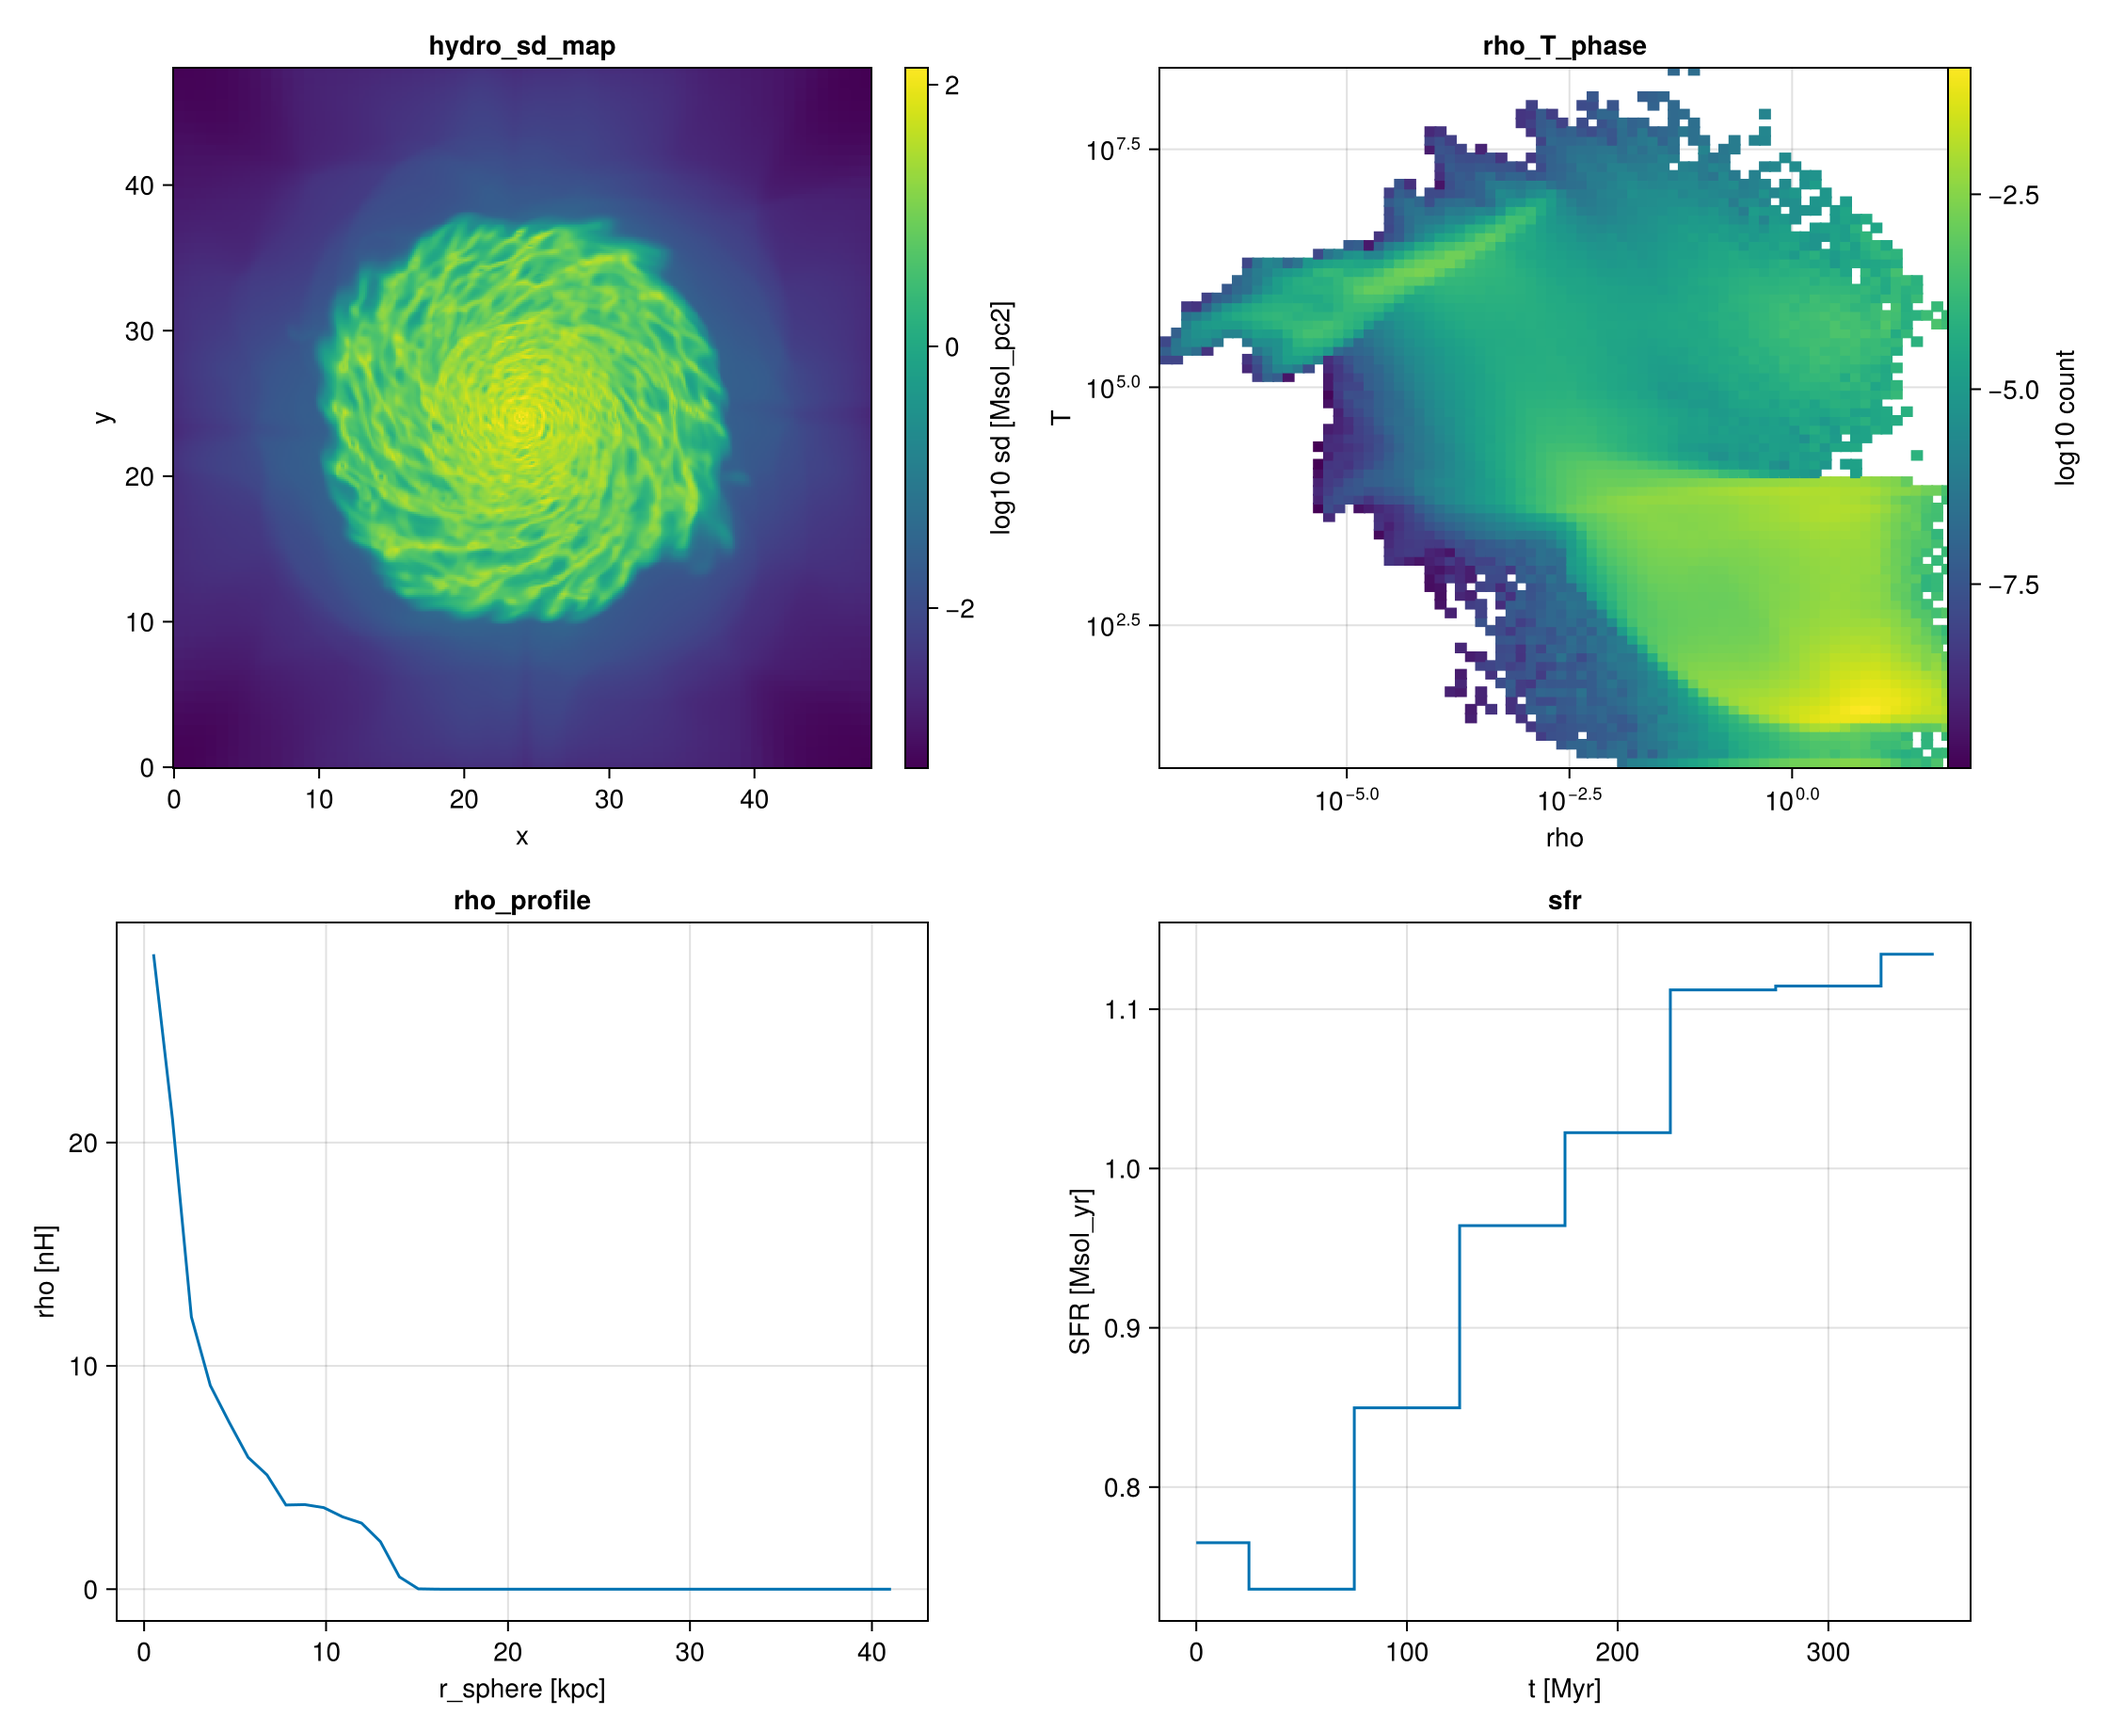
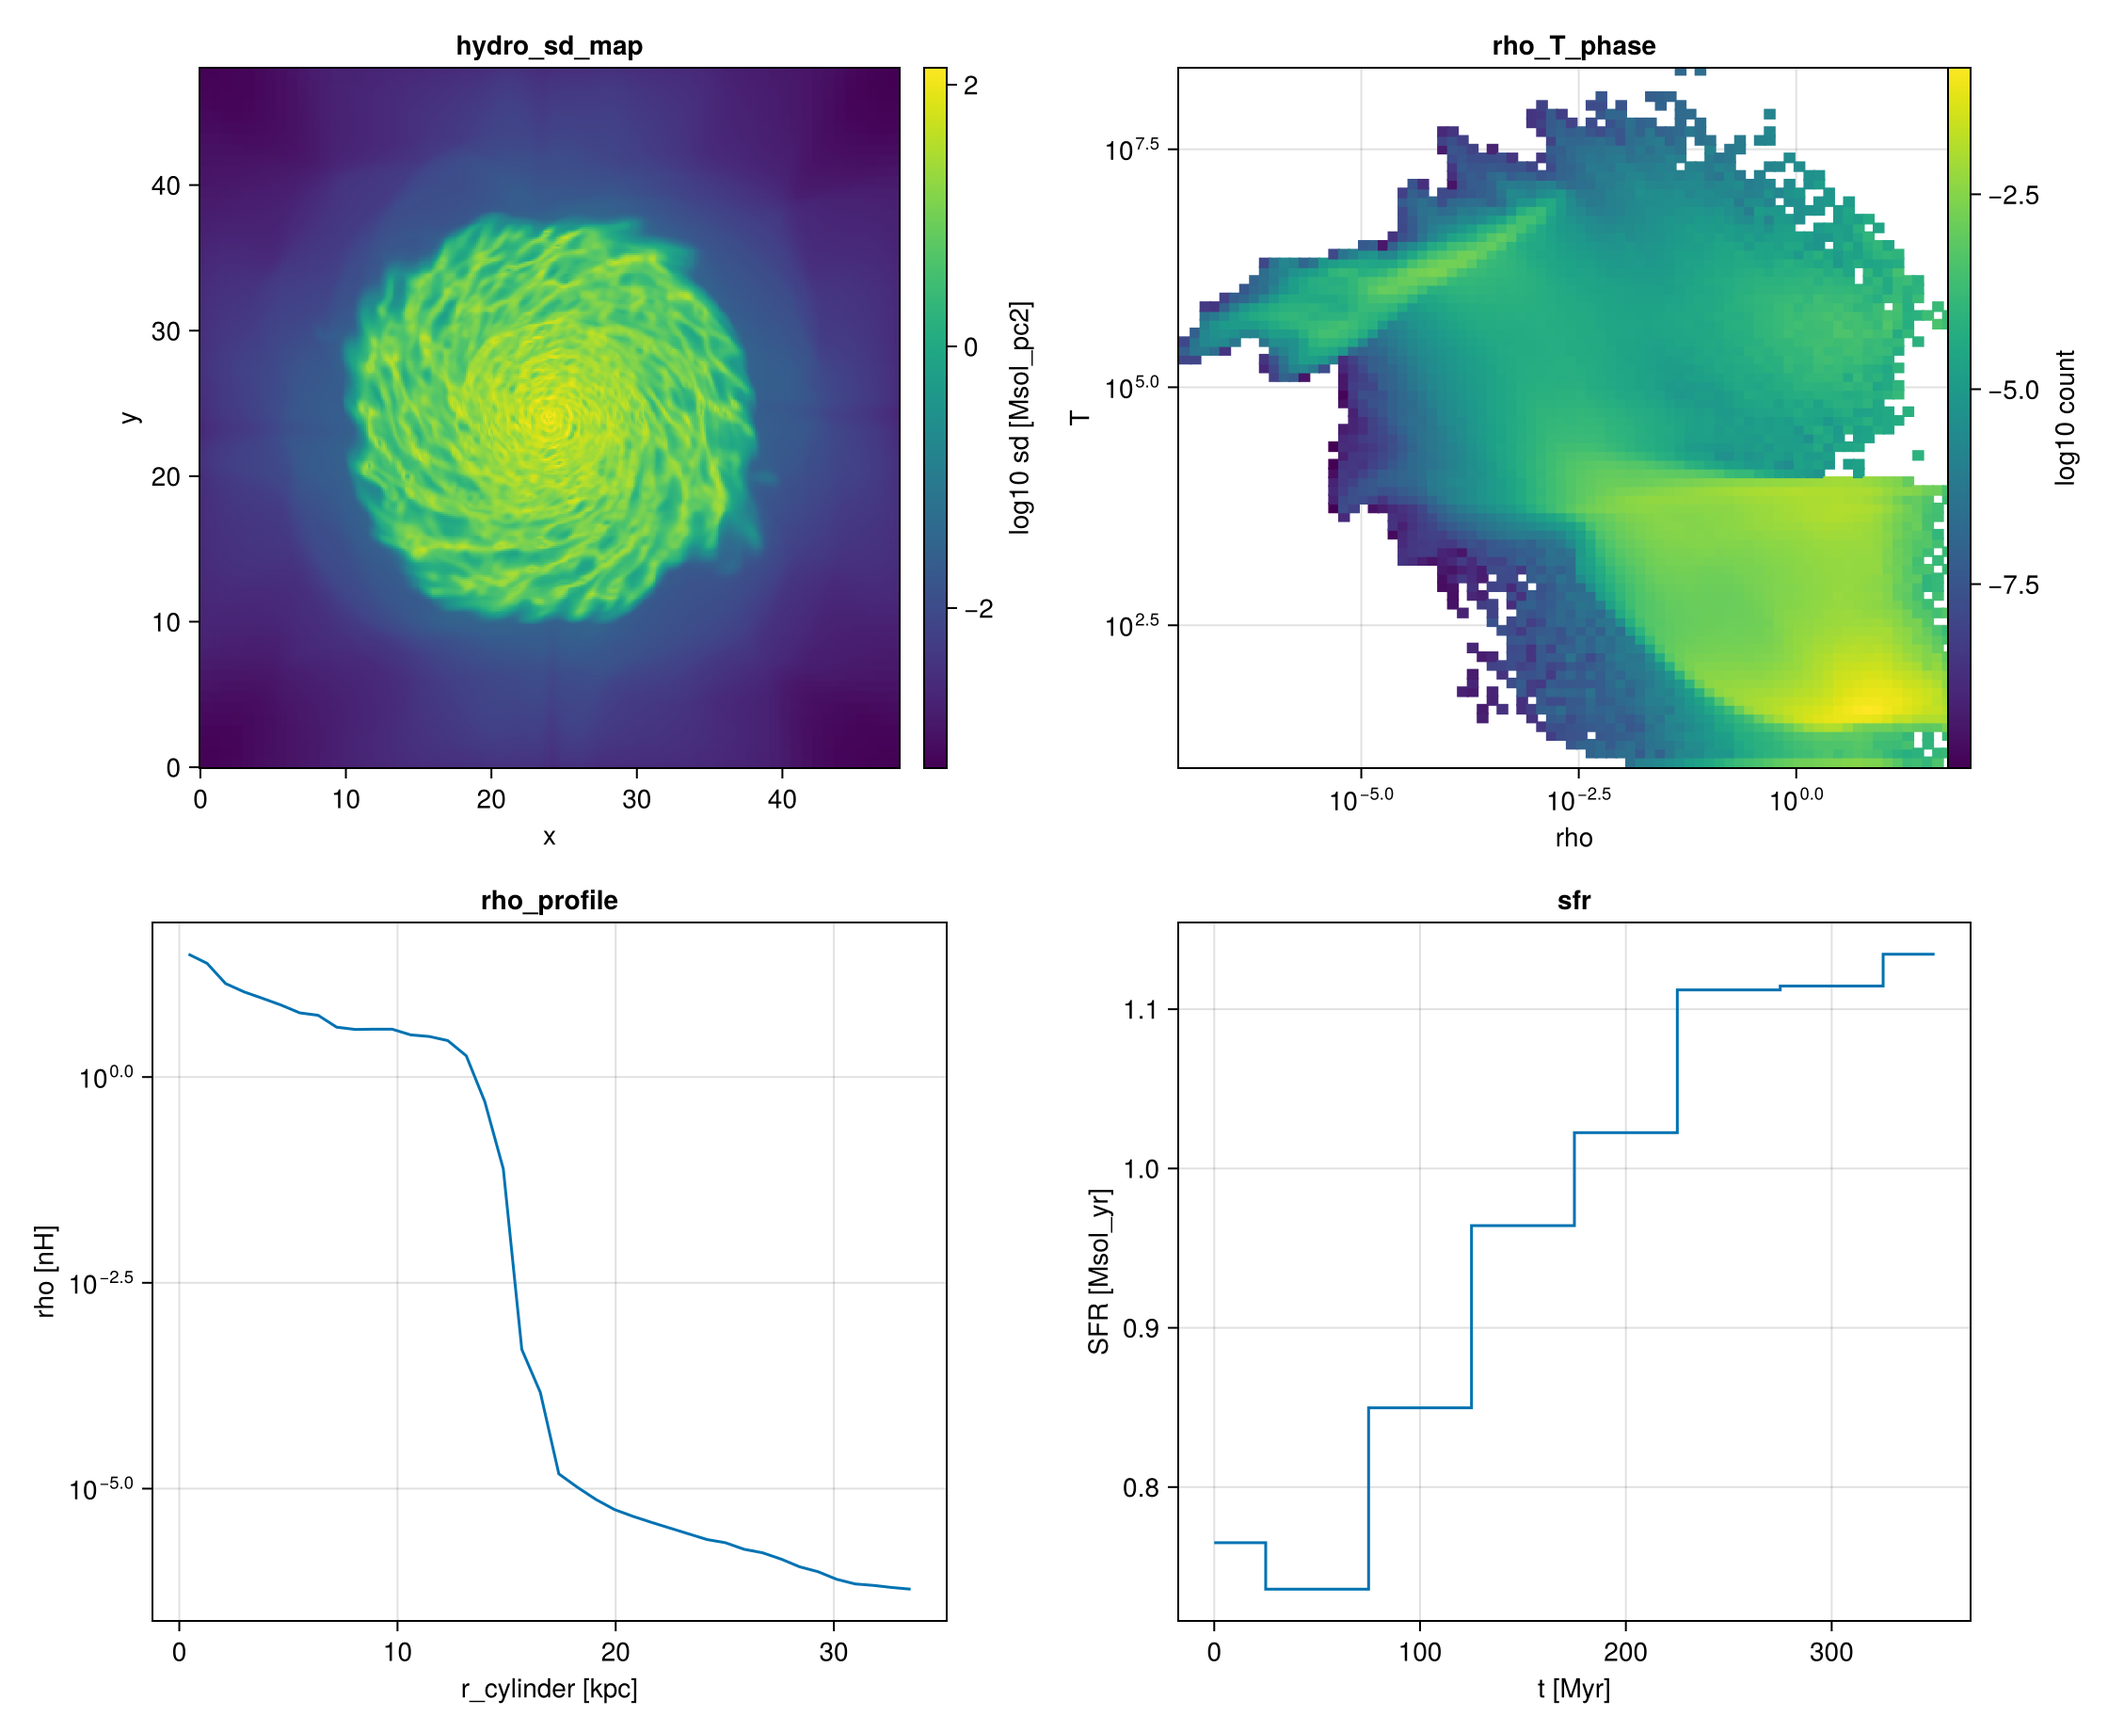
report: disk-friendly default profile (r_cylinder/cylindrical) + ProfileCard yscale (:auto/:log/:identity, log y for density); render respects it; docs: profile geometry/scale guidance + RT note (gas shown correctly; RT fields are separate via getrt, verified on rt_stromgren)

diff --git a/docs/src/report.md b/docs/src/report.md
@@ -165,8 +165,8 @@ your own, list **cards**:
 report(400; path="/sim", output=:ascii, cards=[
     ProjectionCard(:hydro, :sd; unit=:Msol_pc2, res=512),                 # surface-density map
     PhaseCard(:hydro, :rho, :T; weight=:mass, xunit=:nH, yunit=:K),       # ρ–T phase diagram
-    ProfileCard(:hydro, :r_sphere, :rho; weight=:mass, nbins=40,          # radial density profile
-                geometry=:spherical, center=[:bc], range_unit=:kpc, xunit=:kpc, unit=:nH),
+    ProfileCard(:hydro, :r_cylinder, :rho; weight=:mass, nbins=40,        # disk radial density profile
+                geometry=:cylindrical, center=[:bc], range_unit=:kpc, xunit=:kpc, unit=:nH, yscale=:log),
     ScalarCard(:hydro, :mass; reduce=:sum, unit=:Msol),                   # absolute gas mass
     ScalarCard(:hydro, :mass; fraction=true, label="cold_frac",           # cold-gas mass fraction
                mask = o -> getvar(o, :T, :K) .< 1e4),
@@ -187,8 +187,9 @@ CairoMakie.save("report.png", fig)
 ```
 
 ![A rendered composable report (isolated disk galaxy): the four cards above — a face-on gas
-surface-density map, the ρ–T phase diagram, a spherical radial density profile, and the
-star-formation history — laid out as a 2×2 grid by `render(rep, :plot)`.](assets/features/report_cards.png)
+surface-density map, the ρ–T phase diagram, a cylindrical-radius density profile (log y-axis,
+showing the exponential disk and its outer break), and the star-formation history — laid out as a
+2×2 grid by `render(rep, :plot)`.](assets/features/report_cards.png)
 
 ### The cards
 
@@ -212,6 +213,20 @@ total of `relative_to` (or the same variable); `mask` restricts the rows:
 ```julia
 ScalarCard(:hydro, :mass; reduce=:sum, unit=:Msol)                        # absolute  [M⊙]
 ScalarCard(:hydro, :mass; fraction=true, mask = o -> getvar(o,:T,:K).<1e4) # fraction of total
+```
+
+#### Profiles: geometry & axis scale
+
+A `ProfileCard`'s `geometry` sets the radial coordinate. For a **disk galaxy** use
+`xvar=:r_cylinder, geometry=:cylindrical` — radius in the disk plane — which is the default in the
+quicklook trio; a **halo/spheroid** is better with `:r_sphere, geometry=:spherical`. `yscale` controls
+the plotted y-axis: `:log` (log₁₀), `:identity` (linear), or `:auto` (log when the profile is positive
+and spans ≳ 1.5 decades, e.g. density). So the default density profile is cylindrical with a log y-axis.
+
+```julia
+ProfileCard(:hydro, :r_cylinder, :rho; geometry=:cylindrical, weight=:mass, unit=:nH, yscale=:log)  # disk
+ProfileCard(:hydro, :r_sphere,   :rho; geometry=:spherical,   weight=:mass, unit=:nH)                # halo
+ProfileCard(:hydro, :r_cylinder, :vz;  geometry=:cylindrical, weight=:mass, yscale=:identity)        # signed → linear
 ```
 
 #### Star formation
@@ -263,6 +278,14 @@ Scalar and profile cards work on **hydro, particles, gravity, and clumps**; proj
 — never an error — when its datatype is absent from the output, or when it needs a variable that
 isn't stored (e.g. an RT `:xHII` card on a non-RT run). So a "kitchen-sink" plan runs unchanged on a
 hydro-only output.
+
+!!! note "Radiative-transfer (RT) outputs"
+    On an **RT** simulation the standard quantities are shown correctly: RAMSES stores the radiative-
+    transfer fields (photon densities, fluxes, ionization fractions) in *separate* files read by
+    [`getrt`](@ref), so they are **not** part of `nvarh` — `quicklook` and the hydro cards read the
+    usual gas variables (`:rho`, `:vx…`, `:p`) and derive `:sd`, `:T`, the ρ–T phase and the budget
+    exactly as on a non-RT run. The RT fields themselves are not in the first-look dashboard; load them
+    explicitly with `getrt(info)` and add e.g. an RT projection card to a `report` to include them.
 
 ### Cost estimate & budget
 
